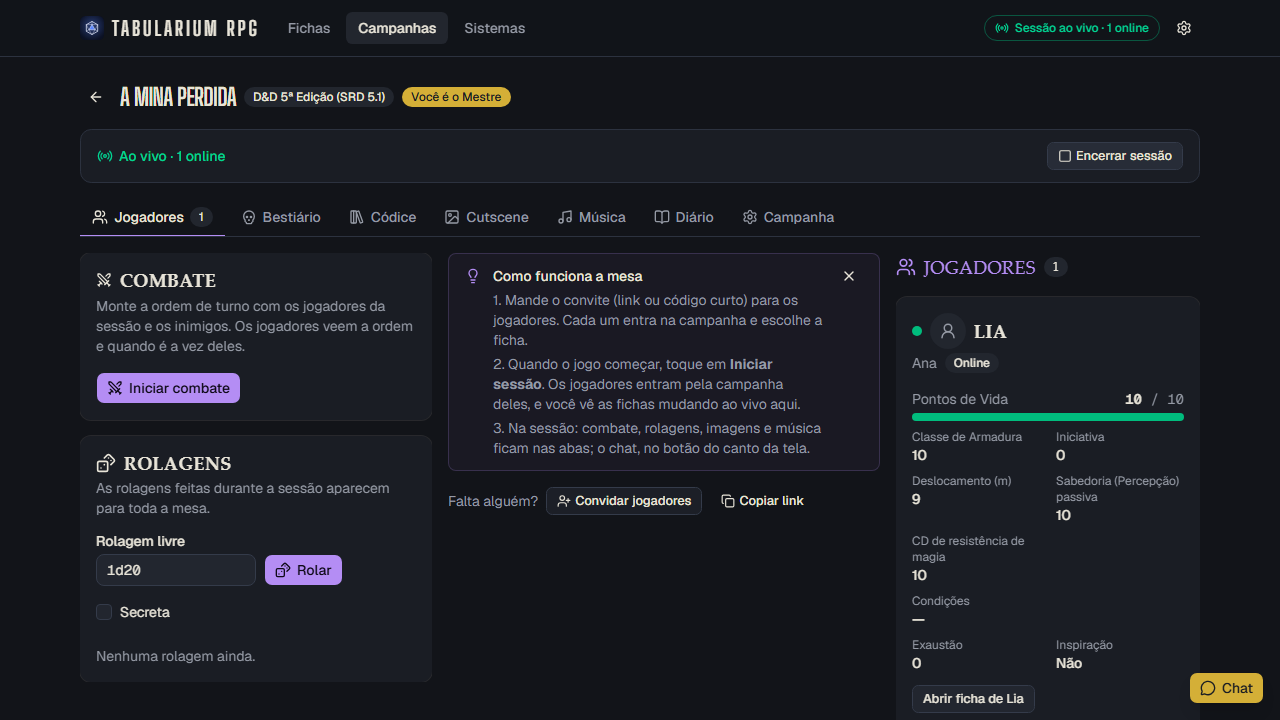
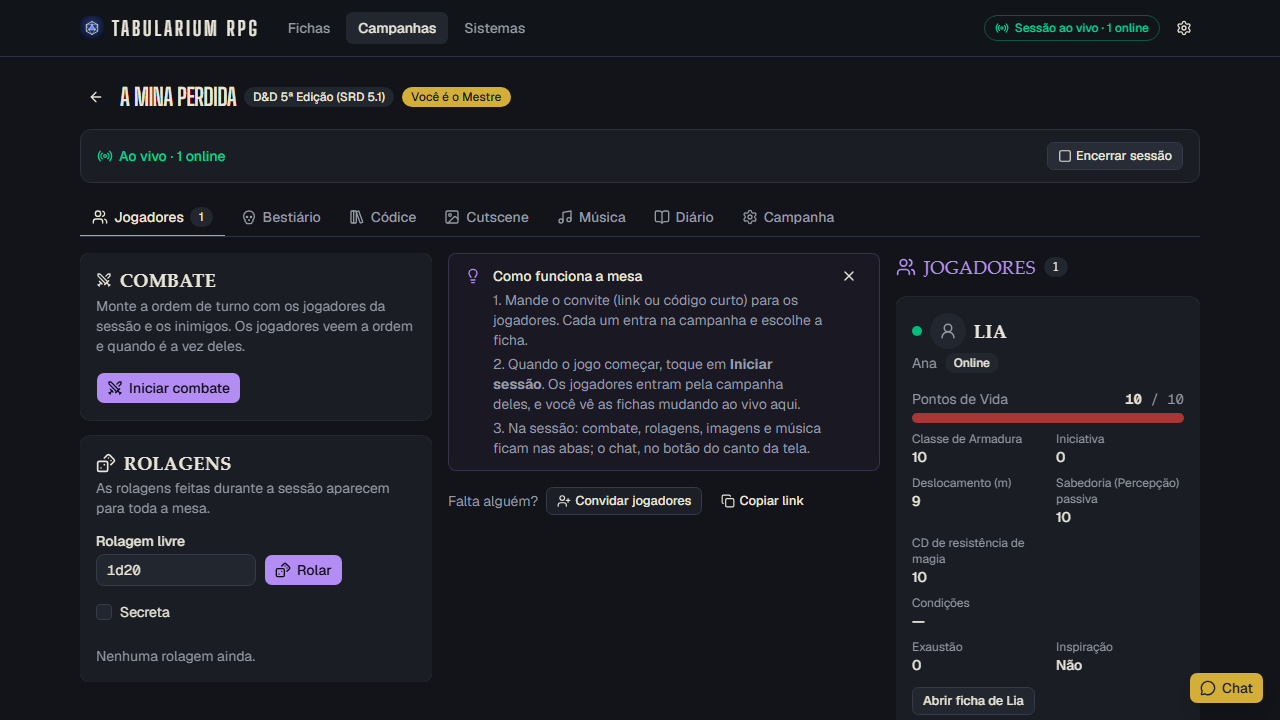
fix: barras do card do jogador na cor do recurso (#93)

diff --git a/apps/web/src/components/live/PlayerCard.tsx b/apps/web/src/components/live/PlayerCard.tsx
@@ -19,6 +19,7 @@ import { Badge } from '@/components/ui/badge';
 import { Card, CardContent, CardDescription, CardHeader, CardTitle } from '@/components/ui/card';
 import { formatNumber } from '@/components/sheet/format';
 import { CharacterPortrait } from '@/components/sheet/Portrait';
+import { barColor } from '@/components/sheet/SheetVitals';
 import { describeConnection } from './connection';
 
 const okValue = (result: Result<number, EvaluationError> | undefined) =>
@@ -63,14 +64,15 @@ function ResourceSummary({
         aria-valuemin={0}
         aria-valuemax={100}
         aria-valuenow={Math.round(percent)}
-        className="bg-muted h-2 overflow-hidden rounded-full"
+        className="bg-muted relative h-2.5 overflow-hidden rounded-full"
       >
+        {/* Na cor do recurso, como na ficha (Vida vermelha, Sanidade violeta…). */}
         <div
-          className={cn(
-            'h-full transition-[width]',
-            percent > 50 ? 'bg-emerald-500' : percent > 25 ? 'bg-amber-500' : 'bg-red-500',
-          )}
-          style={{ width: `${percent}%` }}
+          className="absolute inset-0 origin-left transition-transform motion-reduce:transition-none"
+          style={{
+            transform: `scaleX(${percent / 100})`,
+            background: barColor(field.type === 'resource' ? field.color : undefined, percent),
+          }}
         />
       </div>
     </div>
